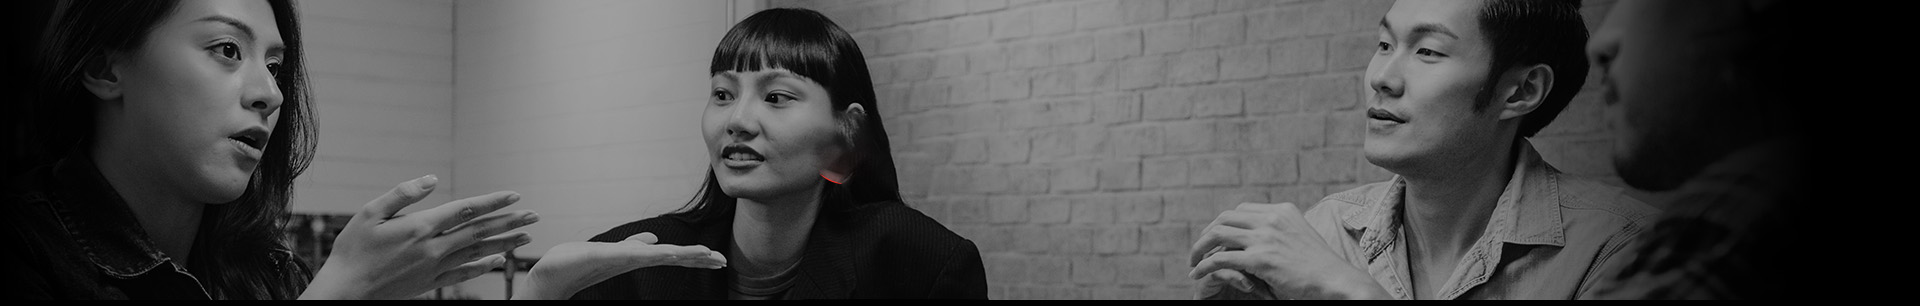
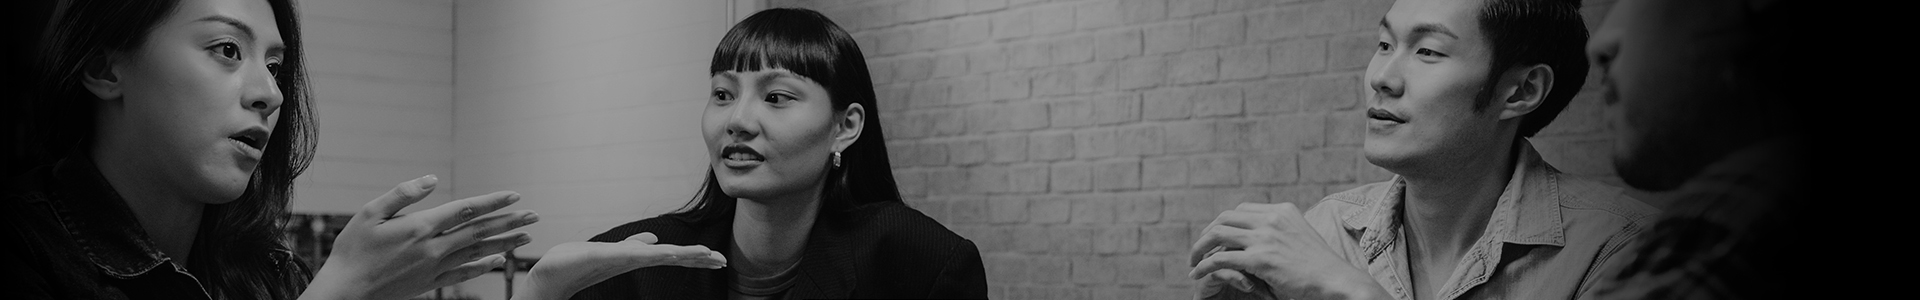
change photo footer and text in about page

diff --git a/en/include/footer.php b/en/include/footer.php
@@ -172,34 +172,34 @@
     $services = [
       [
         'title' => 'Unlimited Microsite for Government',
-        'bg' => DOMAIN.'public/img/content/menu-service-02.jpg',
+        'bg' => DOMAIN.'public/img/content/01-Microsite.jpg',
         'url' => 'web-gov-minisite.php'
       ],[
         'title' => 'Enterprise Wordpress<br>Solutions',
-        'bg' => DOMAIN.'/img/content/menu-service-03.jpg',
+        'bg' => DOMAIN.'/img/content/02-Wordpress.jpg',
         'url' => 'enterprise-wordpress-solution.php'
       ],[
         'title' => 'NetWork Architecture/<br>DevSecOps',
-        'bg' => DOMAIN.'public/img/content/menu-service-04.jpg',
+        'bg' => DOMAIN.'public/img/content/03-NetWork Architecture.jpg',
         'url' => 'network-security-system.php'
       ],[
         'title' => 'Full Services Digital<br>Marketing',
-        'bg' => DOMAIN.'public/img/content/menu-service-05.jpg',
+        'bg' => DOMAIN.'public/img/content/04-Marketing.jpg',
         'url' => 'services.php'
       ],[
         'title' => 'AR, VR/3D Virtual Tour<br>Metaverse',
-        'bg' => DOMAIN.'public/img/content/menu-service-06.jpg',
+        'bg' => DOMAIN.'public/img/content/05-AR.jpg',
         'url' => 'virtual-world.php'
       ],[
         'title' => 'E-office/ ERP for<br>Government',
-        'bg' => DOMAIN.'public/img/content/menu-service-08.jpg',
+        'bg' => DOMAIN.'public/img/content/06-E-office.jpg',
         'url' => 'erp-for-government.php'
       ]
     ]
   ?>
   <section data-section="98" class="section-02 section-padding bg-black pb-0">
     <h3 class="text-center color-01 fw-600" data-aos="fade-up" data-aos-delay="0">
-      งานบริการอื่นๆ <span class="fw-100 color-white">ของเรา</span>
+      งานบริการอื่น ๆ <span class="fw-100 color-white">ของเรา</span>
     </h3> 
     <div class="swiper-container mt-6" data-aos="fade-up" data-aos-delay="150">
       <div class="swiper-wrapper">

diff --git a/include/footer.php b/include/footer.php
@@ -172,34 +172,34 @@
     $services = [
       [
         'title' => 'Unlimited Microsite for Government',
-        'bg' => 'public/img/content/menu-service-02.jpg',
+        'bg' => 'public/img/content/01-Microsite.jpg',
         'url' => 'web-gov-minisite.php'
       ],[
         'title' => 'Enterprise Wordpress<br>Solutions',
-        'bg' => 'public/img/content/menu-service-03.jpg',
+        'bg' => 'public/img/content/02-Wordpress.jpg',
         'url' => 'enterprise-wordpress-solution.php'
       ],[
         'title' => 'NetWork Architecture/<br>DevSecOps',
-        'bg' => 'public/img/content/menu-service-04.jpg',
+        'bg' => 'public/img/content/03-NetWork Architecture.jpg',
         'url' => 'network-security-system.php'
       ],[
         'title' => 'Full Services Digital<br>Marketing',
-        'bg' => 'public/img/content/menu-service-05.jpg',
+        'bg' => 'public/img/content/04-Marketing.jpg',
         'url' => 'services.php'
       ],[
         'title' => 'AR, VR/3D Virtual Tour<br>Metaverse',
-        'bg' => 'public/img/content/menu-service-06.jpg',
+        'bg' => 'public/img/content/05-AR.jpg',
         'url' => 'virtual-world.php'
       ],[
         'title' => 'E-office/ ERP for<br>Government',
-        'bg' => 'public/img/content/menu-service-08.jpg',
+        'bg' => 'public/img/content/06-E-office.jpg',
         'url' => 'erp-for-government.php'
       ]
     ]
   ?>
   <section data-section="98" class="section-02 section-padding bg-black pb-0">
     <h3 class="text-center color-01 fw-600" data-aos="fade-up" data-aos-delay="0">
-      งานบริการอื่นๆ <span class="fw-100 color-white">ของเรา</span>
+      งานบริการอื่น ๆ <span class="fw-100 color-white">ของเรา</span>
     </h3> 
     <div class="swiper-container mt-6" data-aos="fade-up" data-aos-delay="150">
       <div class="swiper-wrapper">

diff --git a/about.php b/about.php
@@ -237,7 +237,7 @@
                   </li>
                   <li>	
                     เรามีประสบการณ์ในการทำงาน Digital Business มานานกว่า 25 ปี
-                    การันตีด้วย<br>ผลงานและลูกค้ากว่า 500 โครงการ 
+                    การันตีด้วยผลงานและลูกค้ากว่า 500 โครงการ 
                   </li>
                   <li>	
                     ทีมงานแบบจัดเต็ม ทุก Flow การทำงานตั้งแต่ต้นจนส่งมอบงาน  
